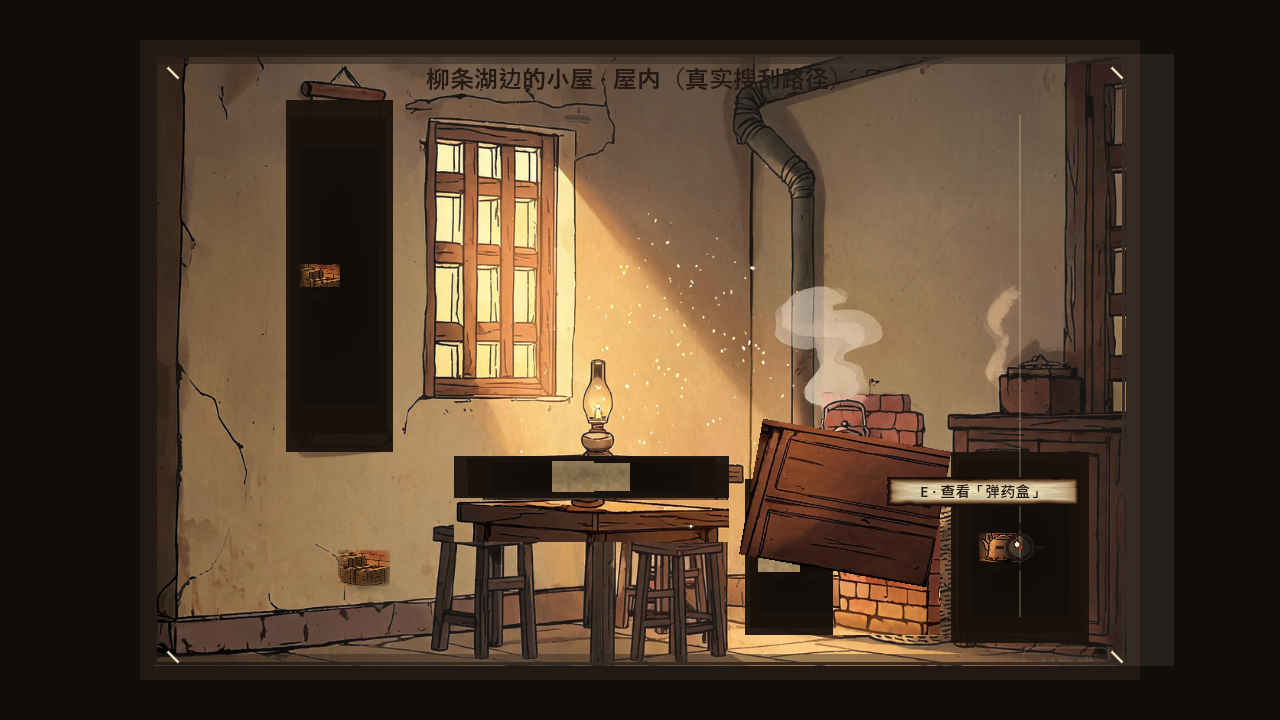
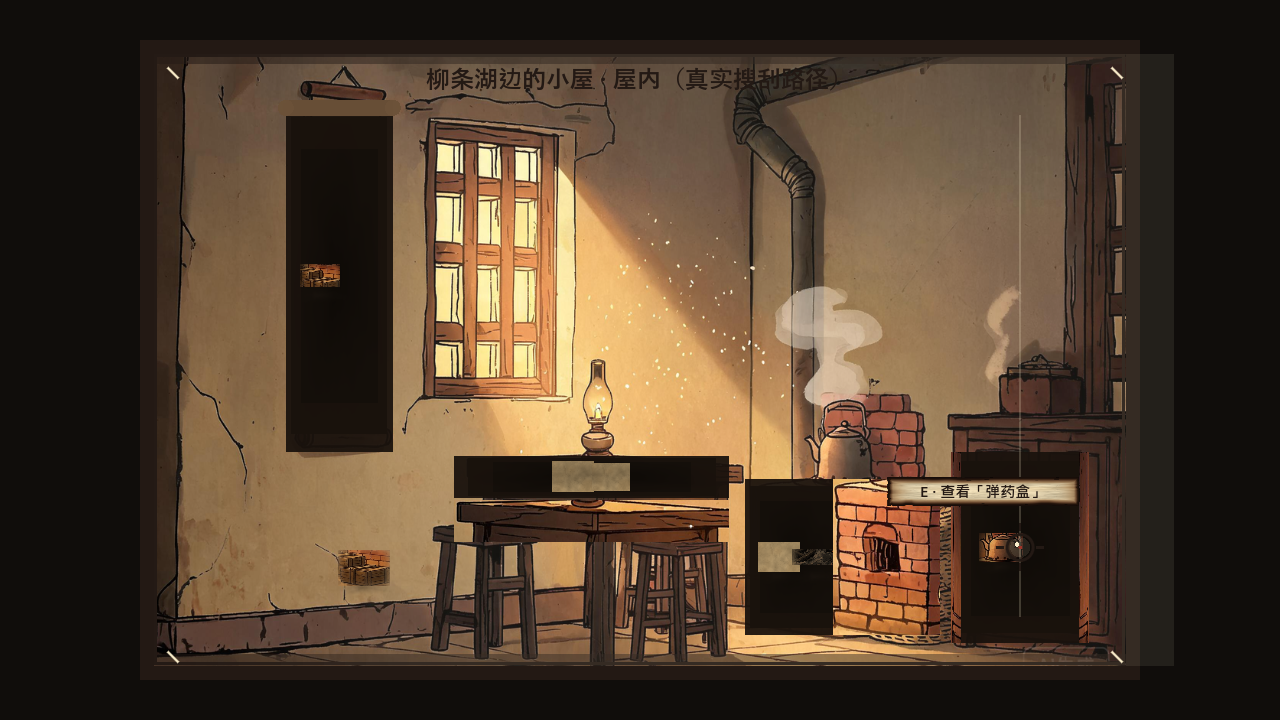
v3.92 · 双开门透视缩短重做 + 挂画上卷卷轴停在框顶（用户附中式双开门参考图：柜子须两扇门各自左右平开、挂画从底向上卷才见暗格）
- Cabinet: 弃用单扇绕合页旋转(读成V形外斜/像倒下)，改透视缩短双开门——两扇门面各自水平压缩进左右两侧窄条、露出中央暗腔；两扇均取亮左半源、右扇镜像使亮木纹朝外左右对称；显式设/重置变换矩阵防跨家具泄漏
- PictureFrame: 画心自底向上卷入、卷口画横向卷轴(矩形+两端圆)，ot->1 整幅卷起、卷轴停在框顶
- README 补 v3.92 章节 + 主线前缀 + 两帧 ?v=3.91->3.92

Changed region(s): [[0.5625, 0.5806, 0.75, 0.8861], [0.8438, 0.6417, 0.875, 0.8861], [0.2188, 0.1222, 0.3125, 0.1833]]

diff --git a/scripts/InteriorExplore.cs b/scripts/InteriorExplore.cs
@@ -1292,18 +1292,32 @@ public partial class InteriorForeground : Control
 
         if (f.Type == FurnitureType.PictureFrame)
         {
-            // 卷轴从下往上卷：仍可见比例 = 1-ot，画心顶部锚定，底部随卷起上升；
-            // ot→1 时整幅卷起、只留暗格（暗格由 DrawFurnitureBody 已画在底层）。
+            // v3.92 挂画「往上卷」：画心自底部向上卷入，底部卷口（横向卷轴）随卷起上升；
+            // ot→1 时整幅卷起、卷轴停在框顶，只留暗格（暗格由 DrawFurnitureBody 已画在底层）。
+            // 用户 2026-11-13：「挂画掀开是拨开的意思或者将画往上卷才会看到暗格」。
             if (mirror) DrawSetTransformMatrix(mirrorM);
-            float h = dst.Size.Y * (1f - ot);
-            if (h > 1f)
+            float visibleH = dst.Size.Y * (1f - ot);
+            float rollH = Mathf.Min(dst.Size.Y * 0.11f, 16f);
+            if (visibleH > 1f)
             {
-                var dDst = new Rect2(dst.Position.X, dst.Position.Y, dst.Size.X, h);
+                var dDst = new Rect2(dst.Position.X, dst.Position.Y, dst.Size.X, visibleH);
                 var dSrc = new Rect2(src.Position.X, src.Position.Y, src.Size.X, src.Size.Y * (1f - ot));
                 DrawTextureRectRegion(_roomTex, dDst, dSrc, new Color(1f, 1f, 1f, 1f));
-                // 卷口画轴端（圆），暗示已卷起，而非整块消失
-                DrawCircle(new Vector2(dst.Position.X + dst.Size.X * 0.5f, dst.Position.Y + h),
-                           dst.Size.X * 0.15f, new Color(0.40f, 0.31f, 0.22f, 0.95f));
+                // 卷口：在仍可见画心的下缘画一截横向卷轴（矩形+两端圆角），读作「往上卷」
+                float cy = dst.Position.Y + visibleH;
+                DrawRect(new Rect2(dst.Position.X, cy - rollH * 0.5f, dst.Size.X, rollH),
+                         new Color(0.42f, 0.32f, 0.22f, 0.95f));
+                DrawCircle(new Vector2(dst.Position.X, cy), rollH * 0.5f, new Color(0.42f, 0.32f, 0.22f, 0.95f));
+                DrawCircle(new Vector2(dst.Position.X + dst.Size.X, cy), rollH * 0.5f, new Color(0.42f, 0.32f, 0.22f, 0.95f));
+            }
+            else
+            {
+                // 完全卷起：卷轴停在框顶，框内只剩暗格（仍读作「画已卷上去」）
+                float cy = dst.Position.Y + rollH * 0.5f;
+                DrawRect(new Rect2(dst.Position.X, cy - rollH * 0.5f, dst.Size.X, rollH),
+                         new Color(0.42f, 0.32f, 0.22f, 0.95f));
+                DrawCircle(new Vector2(dst.Position.X, cy), rollH * 0.5f, new Color(0.42f, 0.32f, 0.22f, 0.95f));
+                DrawCircle(new Vector2(dst.Position.X + dst.Size.X, cy), rollH * 0.5f, new Color(0.42f, 0.32f, 0.22f, 0.95f));
             }
             if (mirror) DrawSetTransformMatrix(Transform2D.Identity);
             return;
@@ -1311,14 +1325,36 @@ public partial class InteriorForeground : Control
 
         if (f.Type == FurnitureType.Cabinet)
         {
-            // 柜门绕左合页旋开（门保持不透明、始终可见），露出柜内暗腔与藏物。
-            float ang = ot * Mathf.DegToRad(100f);
-            Vector2 hinge = new Vector2(dst.Position.X, dst.Position.Y);
-            var rp = hinge.Rotated(ang);
-            var rot = new Transform2D(ang, hinge - rp);
-            var m = mirror ? mirrorM * rot : rot;
-            DrawSetTransformMatrix(m);
-            DrawTextureRectRegion(_roomTex, dst, src, new Color(1f, 1f, 1f, 1f));
+            // v3.92 双开门（对开门）：两扇门各自以外侧合页为轴，开启时向两侧「压扁」（水平透视缩短），
+            // 露出门后暗腔与藏物；ot→1 时两扇收成门侧窄条、中间暗腔完全露出。
+            // 每扇门把「整片半边门面」横向压缩进窄条（而非只取门边），确保左右两扇都看得到木门面；
+            // 背景只画了一扇门且右半偏暗，故两扇均取亮的左半源、右扇再水平镜像让亮木纹朝外、左右对称。
+            // 参考用户 2026-11-13 所发「中式双开门老柜子」图：两扇门各自向左右翻开、平贴两侧。
+            float scale = 1f - ot * 0.86f;            // 1(关) → 0.14(全开，收成门侧窄条)
+            float halfDstW = dst.Size.X * 0.5f;
+            float wL = halfDstW * scale;
+            float wR = halfDstW * scale;
+            // 显式设定基础矩阵，避免继承上一件家具遗留的变换状态
+            DrawSetTransformMatrix(mirror ? mirrorM : Transform2D.Identity);
+            // 左扇：整片左半门面横向压缩进左缘窄条（合页在左）
+            {
+                Rect2 dstL = new Rect2(dst.Position.X, dst.Position.Y, wL, dst.Size.Y);
+                Rect2 srcL = new Rect2(src.Position.X, src.Position.Y, src.Size.X * 0.5f, src.Size.Y);
+                DrawTextureRectRegion(_roomTex, dstL, srcL, new Color(1f, 1f, 1f, 1f));
+            }
+            // 右扇：取亮的左半门面、水平镜像后压缩进右缘窄条，使亮木纹朝外、左右对称
+            {
+                Rect2 dstR = new Rect2(dst.Position.X + dst.Size.X - wR, dst.Position.Y, wR, dst.Size.Y);
+                Rect2 srcR = new Rect2(src.Position.X, src.Position.Y, src.Size.X * 0.5f, src.Size.Y);
+                if (!mirror)
+                {
+                    // 在右窄条内做水平镜像，让亮木纹落在右扇外侧（origin = 2*X + W 使窄条原地镜像）
+                    var flip = new Transform2D(new Vector2(-1f, 0f), new Vector2(0f, 1f),
+                                               new Vector2(2f * dstR.Position.X + dstR.Size.X, 0f));
+                    DrawSetTransformMatrix(flip);
+                }
+                DrawTextureRectRegion(_roomTex, dstR, srcR, new Color(1f, 1f, 1f, 1f));
+            }
             DrawSetTransformMatrix(Transform2D.Identity);
             return;
         }
